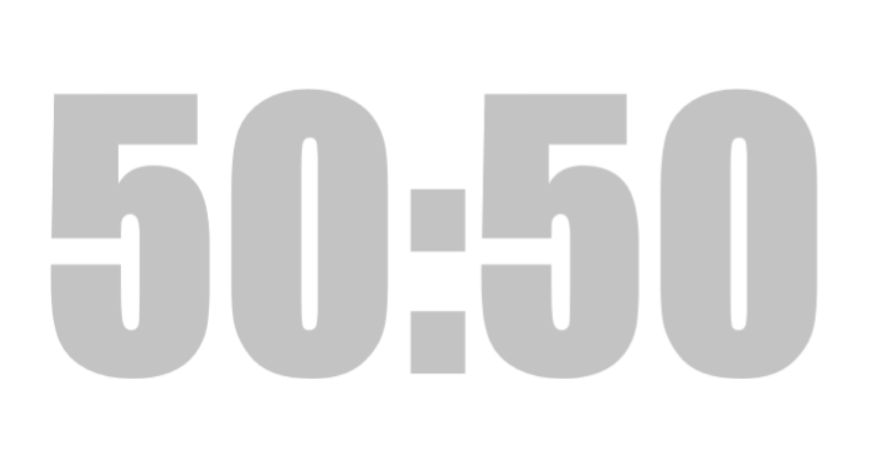
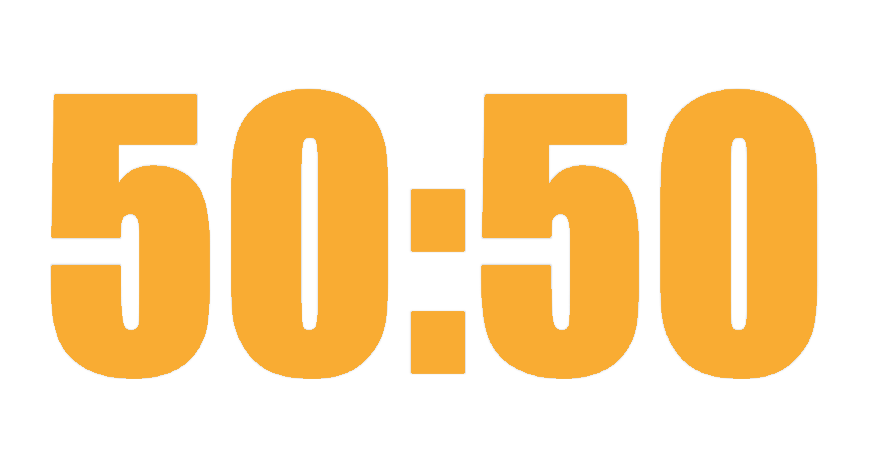
css playerview added

diff --git a/src/views/PlayerView.vue b/src/views/PlayerView.vue
@@ -1,15 +1,13 @@
 <template>
   <div class="player-background">
-    <div class="playerView">
-      <div id="upperHalf">
-        <div class="player-statistics">
-        <div class="player-hearts"> Liv:
-          <img :src="this.userStats?.information?.lives>=1 ? '/img/hjartaRod.png':'/img/hjartaGro.png'" class="heart">
-          <img :src="this.userStats?.information?.lives>=2 ? '/img/hjartaRod.png':'/img/hjartaGro.png'" class="heart">
-        </div>
-        <div class="player-time">Tid: {{ this.userStats?.information?.time }} sekunder </div>
+    <div id="upperHalf">
+      <div class="player-statistics">
+      <div class="player-hearts">
+        <img :src="this.userStats?.information?.lives>=1 ? '/img/hjartaRod.png':'/img/hjartaGro.png'" class="heart">
+        <img :src="this.userStats?.information?.lives>=2 ? '/img/hjartaRod.png':'/img/hjartaGro.png'" class="heart">
       </div>
-      </div>
+      <div class="player-time">{{ this.userStats?.information?.time }} s </div>
+    </div>
 
     </div>
     <div>
@@ -48,7 +46,6 @@ export default {
       questionNumber: null,
       questionActive: false,
       usedFiftyFiftyThisRound: false,
-      usedAskAudienceThisRound: false, // denna kanske ej behövs?
     }
   },
   created: function () {
@@ -90,35 +87,34 @@ export default {
 <style scoped>
 #bottomHalf{
   width: 100%;
-  background-color: black;
+  background: radial-gradient(#1a237e, #0d1137);
   height: 20%;
   position: absolute;
   bottom: 0;
 }
 #upperHalf{
   width: 100%;
-  background-color: black;
+  display: flex;
+  justify-content: center;
+  align-items: center;
+  background: radial-gradient(#1a237e, #0d1137);
   height: 20%;
   position: absolute;
   top: 0;
   z-index: 3;
 }
 .player-background {
-  background-color: #001F3F;
   color: #FFFFFF;
   position: fixed;
   width: 100%;
   height: 100%;
 }
 .player-statistics {
-  width: 100%;
   display: flex;
   justify-content: center;
   align-items: center;
-  gap: 2%;
-  padding: 2%;
-  height: 50%;
-  background-color: black;
+  padding-top: 2vh;
+  padding-bottom: 2vh;
 }
 .player-hearts {
   display: flex;
@@ -131,7 +127,10 @@ export default {
   margin: 5%;
 }
 .player-time {
-  border: 2px solid #cdcdcd;
+  font-size: 2em;
+  font-weight: bold;
+  color: #f9ac33;
+  margin: 0 5vw 0 5vw;
 }
 .help-buttons {
   display: flex;
@@ -139,13 +138,13 @@ export default {
   align-items: center;
 }
 .life-line {
-  height: 5vh;
-  margin: 5%;
-  border: 5px solid #cdcdcd;
+  width: 15vh;
+  margin: 1vh 1vw 1vh 1vw;
+  border: 5px solid #be8426;
   border-radius: 50%;
 }
 .life-line.dimmed {
-  border: 5px solid #454545;
+  border: 5px solid #825b1c;
   filter: brightness(50%);
 }
 </style>

diff --git a/src/components/AnswerOptions.vue b/src/components/AnswerOptions.vue
@@ -4,7 +4,7 @@
         v-bind:sent="sent"
         v-bind:seeAlternatives="seeAlternatives"
         v-bind:questionActive="questionActive"/>
-    <div id="container" v-if="questionActive || seeAlternatives" class="answeralternatives">
+    <div id="container" v-if="questionActive || seeAlternatives" class="answeralternatives"> <!-- v-if="questionActive || seeAlternatives" -->
       <div class="timerBarContainer">
         <div class="timerBar" :style="{ width: percentage + '%' }"></div>
       </div>
@@ -244,11 +244,13 @@ export default {
   height: 100%;
   /*background: linear-gradient(#393a93, #7bb0f3, #393a93); */
   background-color: #101c3e;
-  color:white;
+  color:#e3e3e3;
   clip-path: polygon(15% 0%, 85% 0%, 100% 50%, 85% 100%, 15% 100%, 0% 50%);
   align-content: center;
   justify-content: center;
   position: relative;
+  font-size: 1.2em;
+  font-weight: bold;
 }
 .borderRect{
   clip-path: polygon(15% 0%, 85% 0%, 100% 50%, 85% 100%, 15% 100%, 0% 50%);
@@ -260,40 +262,38 @@ export default {
   box-shadow: 0 0 5px lightyellow;
 }
 .selected {
-  background-color: #FF5700;
-  border-color: #FF5700;
-  color: white; 
+  background-color: #f9ac33;
+  border-color: #ffa618;
+  color: #e3e3e3; 
 }
 .sended {
-  background-color: #FFAD66; 
-  border-color: #FFAD66;
-  color: white; 
+  background-color: #ff8f2d; 
+  border-color: #ca7022;
+  color: #e3e3e3; 
 }
 .showCorrect {
-  background-color: #2ECC40; 
-  border-color: #2ECC40;
-  color: white;
+  background-color: #56c763; 
+  border-color: #36ce47;
+  color: #e3e3e3;
 }
 .showIncorrect {
-  background-color: #FF4136; 
+  background-color: #fd4d47; 
   border-color: #FF4136;
-  color: white;
+  color: #e3e3e3;
 }
 .showAudienceAnswer {
-  background-color: yellow;
+  background-color: rgb(107, 124, 255);
   color: black;
-}
-.submitbutton {
-  width: 80vw;
 }
 button:disabled {
   background-color: grey;
+  border-color: rgb(95, 95, 95);
 }
 .timerBarContainer {
   width: 95%; 
   /*height: 20px;*/
   height: 5%;
-  background-color: white;
+  background-color: #e3e3e3;
   border-radius: 10px;
   overflow: hidden;
   /*margin: 3vh 0;*/
@@ -314,7 +314,7 @@ button:disabled {
   width: 100%;
   height: 60%;
   top:20%;
-  background: linear-gradient(45deg,#0f131f, #3a3790, #0f131f);
+  background: radial-gradient(#1a237e, #0d1137);
   z-index: 0;
 }
 </style>
